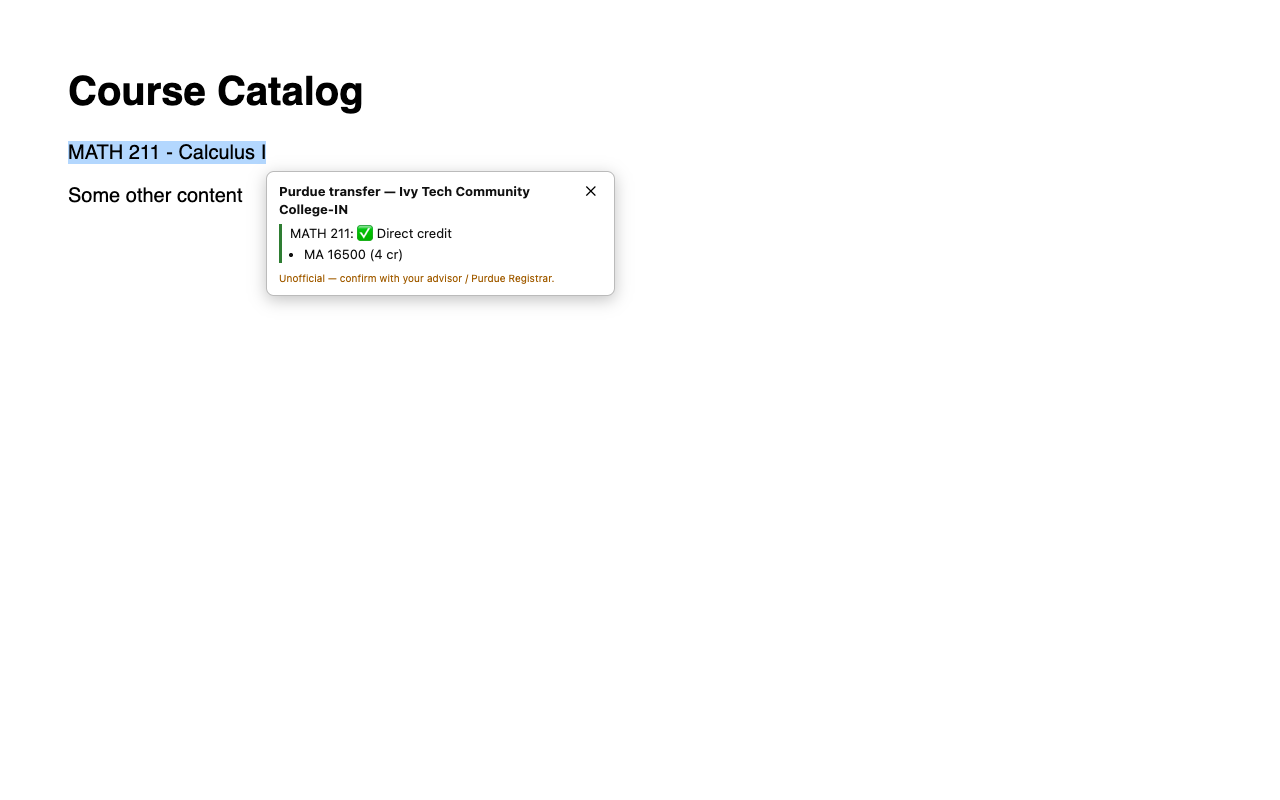
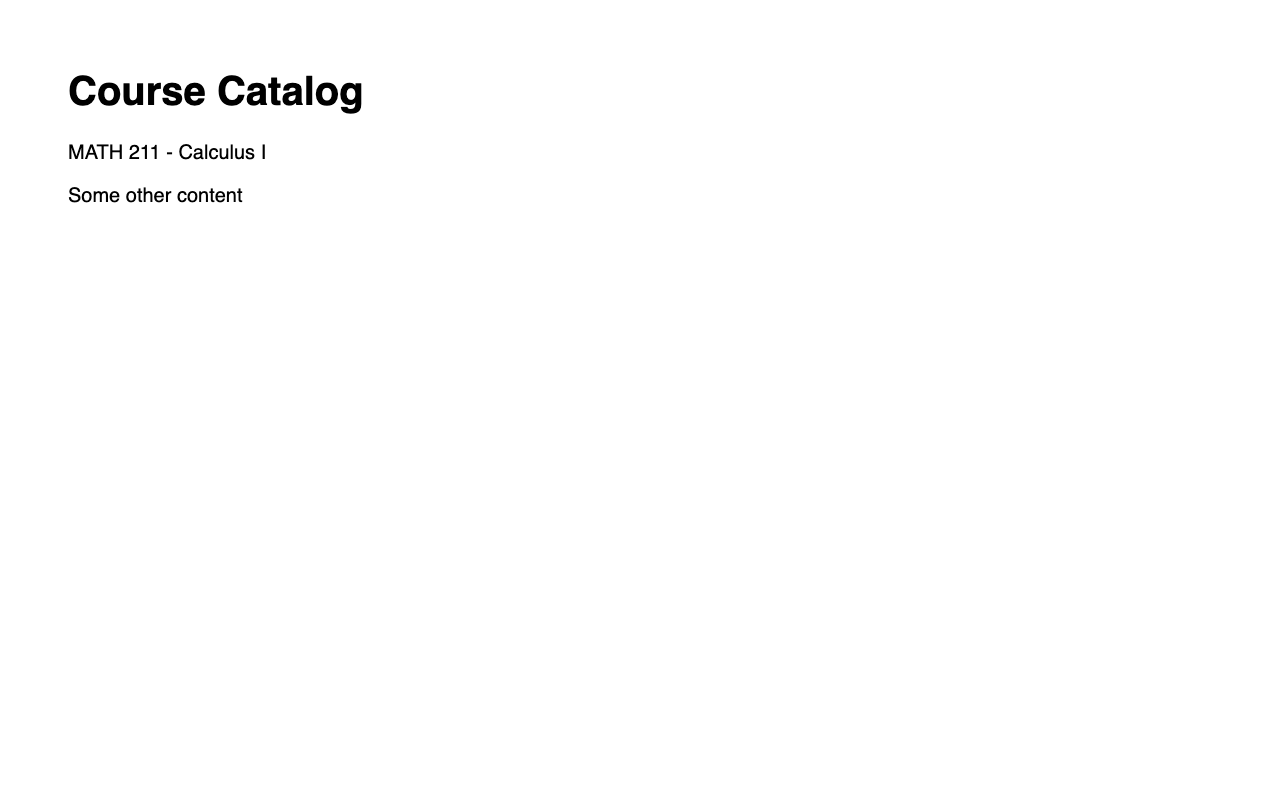
security: fix fingerprinting, UI spoofing, cache exhaustion, port leak, innerHTML sinks; v0.3.1
Adversarial review (docs/security-review.md), 5 findings fixed:
- mouseup now requires ev.isTrusted — pages could induce our UI with synthetic
  events and detect the extension (fingerprints the user as a Purdue transfer
  applicant); also removes a CPU-abuse vector
- host element id randomized per page load — a fixed id let any page target or
  impersonate our result card
- cache: real LRU eviction (cap 2000) + sweep on every networked lookup +
  quota-failure retry; was TTL-only and swept only at install
- background: default case always answers, unknown kinds no longer leave the
  caller's promise pending forever
- popup: all innerHTML sinks (course code, two error paths) -> textContent
- docs: PROJECT_CONTEXT no longer claims LRU it didn't have; PRIVACY discloses
  that GET lookups appear in Purdue's server logs

101 unit tests + 20 E2E (3 new security assertions) green.

Changed region(s): [[0.1875, 0.2188, 0.5, 0.375], [0.0312, 0.1562, 0.2188, 0.2188]]

diff --git a/src/popup.ts b/src/popup.ts
@@ -72,6 +72,15 @@ function verdictLabel(v: TransferResult["verdict"]): string {
   }[v];
 }
 
+/** Error text is never trusted as markup — it can carry upstream strings. */
+function showError(message: string): void {
+  resultsDiv.textContent = "";
+  const div = document.createElement("div");
+  div.className = "err";
+  div.textContent = message;
+  resultsDiv.append(div);
+}
+
 function render(report: TransferReport): void {
   resultsDiv.innerHTML = "";
   const s = report.summary;
@@ -86,8 +95,13 @@ function render(report: TransferReport): void {
   for (const item of report.items) {
     const card = document.createElement("div");
     card.className = `card ${item.verdict}`;
+    // textContent, not innerHTML: safe today only because the parser constrains
+    // subject/number to [A-Z0-9]; don't leave that as the only thing holding.
     const title = document.createElement("div");
-    title.innerHTML = `<span class="v">${item.source.subject} ${item.source.number}</span> — ${verdictLabel(item.verdict)}`;
+    const code = document.createElement("span");
+    code.className = "v";
+    code.textContent = `${item.source.subject} ${item.source.number}`;
+    title.append(code, ` — ${verdictLabel(item.verdict)}`);
     card.append(title);
 
     if (item.equivalencies.length) {
@@ -115,9 +129,9 @@ checkBtn.addEventListener("click", async () => {
   const schoolCode = school?.c ?? "";
   const schoolName = school?.n ?? "";
   if (!courses.length || !schoolCode) {
-    resultsDiv.innerHTML = `<div class="err">${
-      schoolCode ? "Enter at least one course like “MATH 211”." : "Search for and select your school first."
-    }</div>`;
+    showError(
+      schoolCode ? "Enter at least one course like “MATH 211”." : "Search for and select your school first.",
+    );
     return;
   }
   checkBtn.disabled = true;
@@ -128,9 +142,9 @@ checkBtn.addEventListener("click", async () => {
       schoolCode, schoolName, courses,
     });
     if ("report" in res && res.ok) render(res.report);
-    else resultsDiv.innerHTML = `<div class="err">${"error" in res ? res.error : "Lookup failed"}</div>`;
+    else showError("error" in res ? res.error : "Lookup failed");
   } catch (e) {
-    resultsDiv.innerHTML = `<div class="err">${e instanceof Error ? e.message : String(e)}</div>`;
+    showError(e instanceof Error ? e.message : String(e));
   } finally {
     checkBtn.disabled = false;
     checkBtn.textContent = "Check transfer credit";

diff --git a/src/cache.ts b/src/cache.ts
@@ -4,9 +4,13 @@ const DAY = 24 * 60 * 60 * 1000;
 export const RESULT_TTL = 30 * DAY;
 export const SCHOOL_LIST_TTL = 30 * DAY;
 
+/** Hard ceiling on cached lookups. ~1KB each, well inside the 10MB quota. */
+export const MAX_RESULT_ENTRIES = 2000;
+
 interface Entry<T> {
   v: T;
   exp: number; // epoch ms
+  at?: number; // last access, for LRU eviction
 }
 
 export function resultKey(schoolCode: string, subject: string, number: string): string {
@@ -29,16 +33,40 @@ export async function cacheGet<T>(key: string): Promise<T | null> {
 }
 
 export async function cacheSet<T>(key: string, value: T, ttlMs: number): Promise<void> {
-  const entry: Entry<T> = { v: value, exp: Date.now() + ttlMs };
-  await chrome.storage.local.set({ [key]: entry });
+  const now = Date.now();
+  const entry: Entry<T> = { v: value, exp: now + ttlMs, at: now };
+  try {
+    await chrome.storage.local.set({ [key]: entry });
+  } catch {
+    // Quota exceeded (or transient): sweep, then try once more. Without this a
+    // full cache turns every subsequent lookup into an error.
+    await cacheSweep();
+    await chrome.storage.local.set({ [key]: entry });
+  }
 }
 
-/** Evict expired entries; keep storage well under the 10MB quota. */
+/**
+ * Evict expired entries, then enforce MAX_RESULT_ENTRIES by dropping the
+ * least-recently-used results. Previously TTL-only and run just once at
+ * install, so the cache could grow until it hit the quota and started
+ * throwing (docs/security-review.md finding 4).
+ */
 export async function cacheSweep(): Promise<void> {
   const all = await chrome.storage.local.get(null);
   const now = Date.now();
-  const dead = Object.entries(all)
-    .filter(([k, v]) => (k.startsWith("r:") || k.startsWith("s:")) && (v as Entry<unknown>).exp < now)
-    .map(([k]) => k);
+  const dead: string[] = [];
+  const live: { key: string; at: number }[] = [];
+
+  for (const [k, v] of Object.entries(all)) {
+    if (!k.startsWith("r:") && !k.startsWith("s:")) continue;
+    const e = v as Entry<unknown>;
+    if (e.exp < now) dead.push(k);
+    else if (k.startsWith("r:")) live.push({ key: k, at: e.at ?? e.exp });
+  }
+
+  if (live.length > MAX_RESULT_ENTRIES) {
+    live.sort((a, b) => a.at - b.at); // oldest access first
+    for (const { key } of live.slice(0, live.length - MAX_RESULT_ENTRIES)) dead.push(key);
+  }
   if (dead.length) await chrome.storage.local.remove(dead);
 }

diff --git a/src/content-script.ts b/src/content-script.ts
@@ -12,10 +12,17 @@ let shadowHost: HTMLDivElement | null = null;
 // so it cannot be re-read from the host (this broke every second UI render).
 let shadowRootRef: ShadowRoot | null = null;
 
+/**
+ * Randomized per page load. A fixed id let any page fingerprint the extension
+ * (`document.getElementById("purdue-transfer-check-root")`) and made it trivial
+ * to style a convincing fake result card under our name. See docs/security-review.md.
+ */
+const HOST_ID = `ptc-${Math.random().toString(36).slice(2, 10)}`;
+
 function ensureShadow(): ShadowRoot {
   if (shadowHost?.isConnected && shadowRootRef) return shadowRootRef;
   shadowHost = document.createElement("div");
-  shadowHost.id = "purdue-transfer-check-root";
+  shadowHost.id = HOST_ID;
   shadowHost.style.cssText = "all: initial; position: fixed; z-index: 2147483647;";
   const shadow = shadowHost.attachShadow({ mode: "closed" });
   shadowRootRef = shadow;
@@ -164,6 +171,10 @@ async function runCheckInner(text: string, x: number, y: number): Promise<void> 
 }
 
 document.addEventListener("mouseup", (ev) => {
+  // Only real user gestures. Synthetic events (isTrusted === false) let any
+  // page induce our UI to appear and then detect it — extension fingerprinting
+  // — and burn CPU by firing mouseup in a loop. See docs/security-review.md.
+  if (!ev.isTrusted) return;
   // ignore clicks on our own UI
   if (ev.target instanceof Node && shadowHost?.contains(ev.target)) return;
   // Chip only when the selection contains something that really looks like a

diff --git a/src/background.ts b/src/background.ts
@@ -117,6 +117,10 @@ async function doLookup(req: Extract<BgRequest, { kind: "LOOKUP" }>): Promise<Tr
     }
   }
 
+  // Bound the cache as we go — onInstalled alone never fires again for a
+  // long-lived install, so entries used to accumulate unbounded.
+  if (misses.length) void cacheSweep();
+
   const summary = {
     direct: items.filter((i) => i.verdict === "DIRECT").length,
     elective: items.filter((i) => i.verdict === "ELECTIVE").length,
@@ -166,6 +170,10 @@ chrome.runtime.onMessage.addListener((msg: BgRequest, _sender, sendResponse) => 
         case "PARSE_SELECTION":
           sendResponse({ ok: true, courses: parseCourseFromText(msg.text) });
           break;
+        default:
+          // Always answer: returning true without responding leaves the
+          // caller's promise pending forever (docs/security-review.md).
+          sendResponse({ ok: false, error: "unsupported request" });
       }
     } catch (e) {
       sendResponse({ ok: false, error: e instanceof Error ? e.message : String(e) });
@@ -176,6 +184,7 @@ chrome.runtime.onMessage.addListener((msg: BgRequest, _sender, sendResponse) => 
 
 chrome.runtime.onInstalled.addListener(() => {
   void cacheSweep();
+  chrome.contextMenus.removeAll();
   chrome.contextMenus.create({
     id: "ptc-check",
     title: "Check Purdue transfer credit for \"%s\"",

diff --git a/docs/security-review.md b/docs/security-review.md
@@ -1,0 +1,164 @@
+# Security Review — Pete (Purdue e-Transfer)
+
+**Date:** 2026-07-13 · **Version reviewed:** v0.3.0 · **Fixes shipped in:** v0.3.1
+**Method:** adversarial code review of every trust boundary, plus empirical probes run against
+the built extension in an isolated Chromium profile (hostile-page simulation, synthetic events,
+message-boundary tests, ReDoS timing, injection fuzzing). No live systems were attacked.
+
+## Threat model
+
+Pete injects UI into every page, reads text selections, and queries a third-party public server.
+The realistic adversaries are: **(a)** a malicious/compromised website the user visits,
+**(b)** a hostile response from Purdue's endpoint, **(c)** a local attacker reading browser
+storage, **(d)** someone abusing Pete (or a fork) to hammer Purdue. There is no login, no
+credential, no payment, and no server of our own — so account takeover and server compromise are
+out of scope by construction.
+
+## Summary
+
+No remote code execution, credential theft, or data-exfiltration path was found. The genuine
+exposure was **privacy and impersonation at the content-script boundary**. Five findings were
+fixed; the rest are accepted risks documented below.
+
+| # | Finding | Severity | Status |
+|---|---------|----------|--------|
+| 1 | Any page could fingerprint the extension | Medium | **Fixed** v0.3.1 |
+| 2 | Any page could impersonate Pete's result card | Medium | **Fixed** v0.3.1 (partial) |
+| 3 | Delegated trust to catalog SaaS hosts | Low–Med | Accepted, documented |
+| 4 | Unbounded cache → quota exhaustion | Low | **Fixed** v0.3.1 |
+| 5 | Page can delete our injected UI | Low | Accepted (inherent) |
+| 6 | Message-port leak on unknown request kind | Low | **Fixed** v0.3.1 |
+| 7 | Latent `innerHTML` sinks in the popup | Low | **Fixed** v0.3.1 |
+| 8 | Lookups sent to Purdue as GET query params | Low | Accepted, disclosed |
+
+## What held up under attack (verified, not assumed)
+
+- **Pages cannot message the extension.** No `web_accessible_resources`, no
+  `externally_connectable`; `chrome.runtime` is absent from the page world. Probe confirmed.
+- **Result contents are unreadable by the host page** — closed shadow root; `host.shadowRoot`
+  returns `null` from page context. Probe confirmed.
+- **No XSS reachable.** Injected markup (`<img onerror>`, `<svg onload>`, `<script>`) is stripped
+  by `parseCourseFromText`; only `[A-Z0-9]` reaches any DOM sink.
+- **No ReDoS.** The course regex uses only bounded quantifiers (`{2,8}`, `{2,4}`, `{0,2}`) with no
+  overlapping alternation; 8KB pathological inputs complete in ≤1ms.
+- **No SSRF or URL injection** — fixed base URL, all parameters `encodeURIComponent`-encoded,
+  host permission scoped to a single origin.
+- **Purdue's HTML cannot execute.** `DOMParser` does not run scripts or fetch subresources, and we
+  read only `textContent`.
+- **No runtime dependencies** — no third-party code ships in the extension, so there is no
+  npm supply-chain surface in the published artifact.
+
+---
+
+## Findings
+
+### 1. Extension fingerprinting via synthetic events — Medium — FIXED
+
+**Attack:** a page programmatically selects text that looks like a course, dispatches a synthetic
+`mouseup`, waits, then checks for `document.getElementById("purdue-transfer-check-root")`.
+
+**Impact:** silently identifies the visitor as a Pete user — i.e. very likely a prospective
+Purdue transfer student. That is exactly the kind of inference ad-tech and data brokers monetize,
+and the user never consented to disclosing it to arbitrary sites.
+
+**Verified before fix:** `extensionDetected: true`.
+
+**Fix:** the `mouseup` handler now requires `ev.isTrusted`. Synthetic events are `false`, so a page
+cannot induce our UI at all. This also removes a CPU-abuse vector (a page firing `mouseup` in a
+loop to force repeated parsing/DOM work).
+
+**Verified after fix:** no host element is injected by synthetic events; real user gestures still
+work.
+
+### 2. UI impersonation / brand abuse — Medium — FIXED (partial)
+
+**Attack:** the injected host element used a constant id, so any page could create its own element
+with that id and style a convincing fake Pete card — e.g. "✅ Direct credit" for a course that does
+not transfer (academic misinformation attributed to us), or a fake "Sign in to Purdue" prompt.
+
+**Fix:** the host id is randomized per page load (`ptc-<random>`), so a page cannot reliably target
+or pre-empt our element, and the fingerprint in finding 1 is gone even if a gesture occurs.
+
+**Residual risk (accepted, inherent):** any page can always draw arbitrary pixels, so a
+sufficiently determined site can still *paint* something resembling our card. Mitigating factors:
+Pete never asks for credentials or any personal data, so there is no legitimate flow for a phishing
+imitation to blend into; and the real card's contents stay unreadable behind the closed shadow root.
+
+### 3. Delegated trust to third-party catalog hosts — Low–Medium — ACCEPTED
+
+v0.3.0 maps `*.courseleaf.com`, `*.coursedog.com`, `*.smartcatalogiq.com`, `*.acalog.com` by
+deriving a school slug from the leftmost label. This delegates identity to those SaaS platforms:
+anyone controlling a subdomain there — including via subdomain takeover — could make Pete attribute
+the wrong school.
+
+**Impact is bounded:** the worst outcome is a lookup against the wrong institution (wrong answer),
+never code execution or data access. Unknown slugs return `null` rather than guessing. Accepted
+because the alternative is losing auto-detection on the pages students actually read, and every
+result already carries an "Unofficial — confirm with your advisor" disclaimer.
+
+### 4. Unbounded cache → quota exhaustion — Low — FIXED
+
+The cache enforced a 30-day TTL but had **no size cap**, and `cacheSweep()` ran **only on install**
+— so it never ran again for a long-lived installation. At ~1KB per result, sustained use fills the
+10MB `storage.local` quota, after which `cacheSet` throws and lookups begin failing.
+`docs/PROJECT_CONTEXT.md` claimed "LRU evict", which did not exist — a docs/code mismatch.
+
+**Fix:** real LRU eviction with a `MAX_RESULT_ENTRIES` (2000) ceiling, an `at` (last-access)
+timestamp per entry, a sweep on every lookup that hits the network, and a quota-failure fallback
+that sweeps and retries once instead of surfacing an error.
+
+### 5. A page can delete our injected UI — Low — ACCEPTED
+
+The host element lives in the page DOM, so the page can remove it. Verified `canRemoveOurUI: true`.
+This is inherent to content-script UI; impact is availability on that page only (the user can still
+use the popup). Not worth the complexity of a MutationObserver arms race.
+
+### 6. Message-port leak on unknown request kind — Low — FIXED
+
+The background listener returned `true` (async response) but had no `default` branch, so an
+unrecognized `kind` never called `sendResponse` and the caller's promise never settled.
+**Fix:** a `default` case that always answers `{ ok: false, error: "unsupported request" }`.
+Verified: previously would hang, now answers immediately.
+
+### 7. Latent `innerHTML` sinks in the popup — Low — FIXED
+
+Three sinks interpolated values into `innerHTML`: the course code line, and two error paths
+(`res.error`, `e.message`). Not exploitable today — the parser constrains subject/number to
+`[A-Z0-9]` — but the only thing preventing XSS was an invariant enforced in a different module.
+**Fix:** all three now build nodes and assign `textContent`.
+
+### 8. Lookups travel as GET query parameters — Low — ACCEPTED, DISCLOSED
+
+We switched the report request from POST to GET to work around Oracle ORDS rejecting
+`Origin: chrome-extension://…` (see `hardest-bugs.md` #7). Correct fix, but a security-relevant
+tradeoff: course codes now appear in Purdue's web-server access logs alongside the user's IP, which
+is more durable and more widely logged than a POST body. The data is low-sensitivity (public course
+codes) and Purdue would receive it anyway from a manual lookup, but it should be stated plainly in
+the privacy policy rather than left implicit.
+
+---
+
+## Abuse and policy risks (not code defects)
+
+- **We published a scraping recipe.** `docs/purdue-endpoint.md` documents the endpoint *and* the
+  10-courses-per-request array-binding trick. Our 1 req/sec throttle is client-side and trivially
+  removed in a fork. This is a deliberate transparency/abuse tradeoff and should be a conscious
+  decision, not an accident. Current stance: keep it public (it documents a public system, and the
+  write-up is the project's main technical artifact), but do not add convenience tooling that
+  lowers the effort to bulk-collect.
+- **Content script runs on all URLs** (`http://*/*`, `https://*/*`) and inspects selections on
+  every trusted `mouseup`. Nothing is transmitted without an explicit click, but this is the
+  permission a Chrome Web Store reviewer will scrutinize hardest, and the honest justification is
+  "highlight-anywhere is the product."
+- **Local storage reveals an academic profile.** Cached lookups disclose which school the user
+  attends and which courses they are considering, unencrypted in `storage.local`. Only reachable
+  by an attacker with local machine access (other extensions cannot read it). Accepted.
+- **Trademark.** The mascot likeness and "Purdue" naming carry takedown risk; the "(Unofficial)"
+  naming, disclaimer, and PRIVACY.md affiliation statement are the mitigations.
+
+## Re-test instructions
+
+The probes used here are ad-hoc rather than committed (they simulate a hostile page and are not
+meaningful CI assertions). To reproduce: load `dist/` in Chromium, serve a page that dispatches a
+synthetic selection + `mouseup`, and confirm no element matching `div[id^="ptc-"]` is injected,
+while a genuine mouse gesture does inject one.

diff --git a/docs/PROJECT_CONTEXT.md b/docs/PROJECT_CONTEXT.md
@@ -31,7 +31,7 @@ graded transfer report in seconds. No backend, no API keys, no paid infrastructu
 │  SERVICE WORKER (background.ts) — the orchestrator                         │
 │   ├─ request queue + token-bucket throttle (1 req/s, burst 3)             │
 │   ├─ TransferClient: builds mod_plsql array-bound POST, retry w/ backoff  │
-│   ├─ CacheLayer: chrome.storage.local, keyed hash, 30-day TTL, LRU evict  │
+│   ├─ CacheLayer: storage.local, 30-day TTL, LRU evict (cap 2000)         │
 │   ├─ SchoolRegistry: per-state school list via p_ajax, cached             │
 │   └─ dispatch → OffscreenParser                                            │
 └──────────────┬──────────────────────────────────┬─────────────────────────┘

diff --git a/PRIVACY.md b/PRIVACY.md
@@ -12,6 +12,9 @@ Guide.
 
 - Course lookups go **directly from your browser to Purdue's public website**
   (`selfservice.mypurdue.purdue.edu`) — the same site you could visit manually. We never see them.
+  These requests are sent as URL parameters, so the course codes you look up may appear in
+  Purdue's own web-server logs alongside your IP address, exactly as they would if you used
+  their lookup page yourself.
 - Results are cached **locally in your browser** (`chrome.storage.local`) for up to 30 days,
   only so repeat lookups are fast and Purdue's servers aren't re-queried. You can clear this
   anytime by removing the extension or clearing extension storage.
